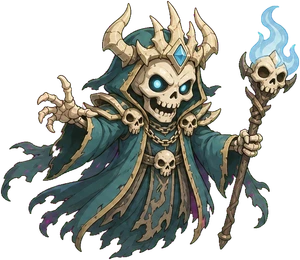
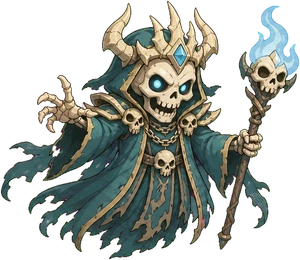
Clean leftover magenta from the Lich's ragged robe (spill option in the art cutter)
Claude-Session: https://claude.ai/code/session_01HxYbKiZmRW1H74WF928BjH

diff --git a/scripts/art/cut.ts b/scripts/art/cut.ts
@@ -12,7 +12,20 @@ import { dirname, join } from 'node:path';
 import { fileURLToPath } from 'node:url';
 import sharp from 'sharp';
 import { seamless } from './seamless';
-import { cropPiece, despeck, findPieces, groupByBoxes, groupPieces, orderPieces, removeBackground, type Box, type Piece, type RgbaImage } from './slicer';
+import {
+  cropPiece,
+  despeck,
+  findPieces,
+  groupByBoxes,
+  groupPieces,
+  orderPieces,
+  removeBackground,
+  unmixSpill,
+  type Box,
+  type Piece,
+  type Rgb,
+  type RgbaImage,
+} from './slicer';
 
 const ROOT = join(dirname(fileURLToPath(import.meta.url)), '../..');
 const IN = join(ROOT, 'art/incoming/mr');
@@ -31,6 +44,8 @@ interface SheetConfig {
   tolerance?: number;
   /** Drop leftover specks smaller than this many pixels. */
   despeck?: number;
+  /** Background colour left in the art's gaps (a ragged robe), recoloured to this colour (see unmixSpill). */
+  spill?: { colour: Rgb; everywhere?: boolean };
   /** Rectangles [x, y, w, h] in sheet pixels to clear first (things drawn that the game does by itself). */
   erase?: [number, number, number, number][];
   /** Ground texture: the key and the size in px of the seamless tile it becomes. */
@@ -73,7 +88,9 @@ async function cutSheet(name: string, cfg: SheetConfig): Promise<string[]> {
     return [cfg.tile.key];
   }
 
-  let { image } = removeBackground(sheet, cfg.tolerance);
+  const removed = removeBackground(sheet, cfg.tolerance);
+  let { image } = removed;
+  if (cfg.spill && removed.background) image = unmixSpill(image, removed.background, cfg.spill.colour, 48, cfg.spill.everywhere);
   for (const [x0, y0, w, h] of cfg.erase ?? [])
     for (let y = y0; y < y0 + h; y++) image.data.fill(0, (y * image.width + x0) * 4, (y * image.width + x0 + w) * 4);
   if (cfg.despeck) image = despeck(image, cfg.despeck);
